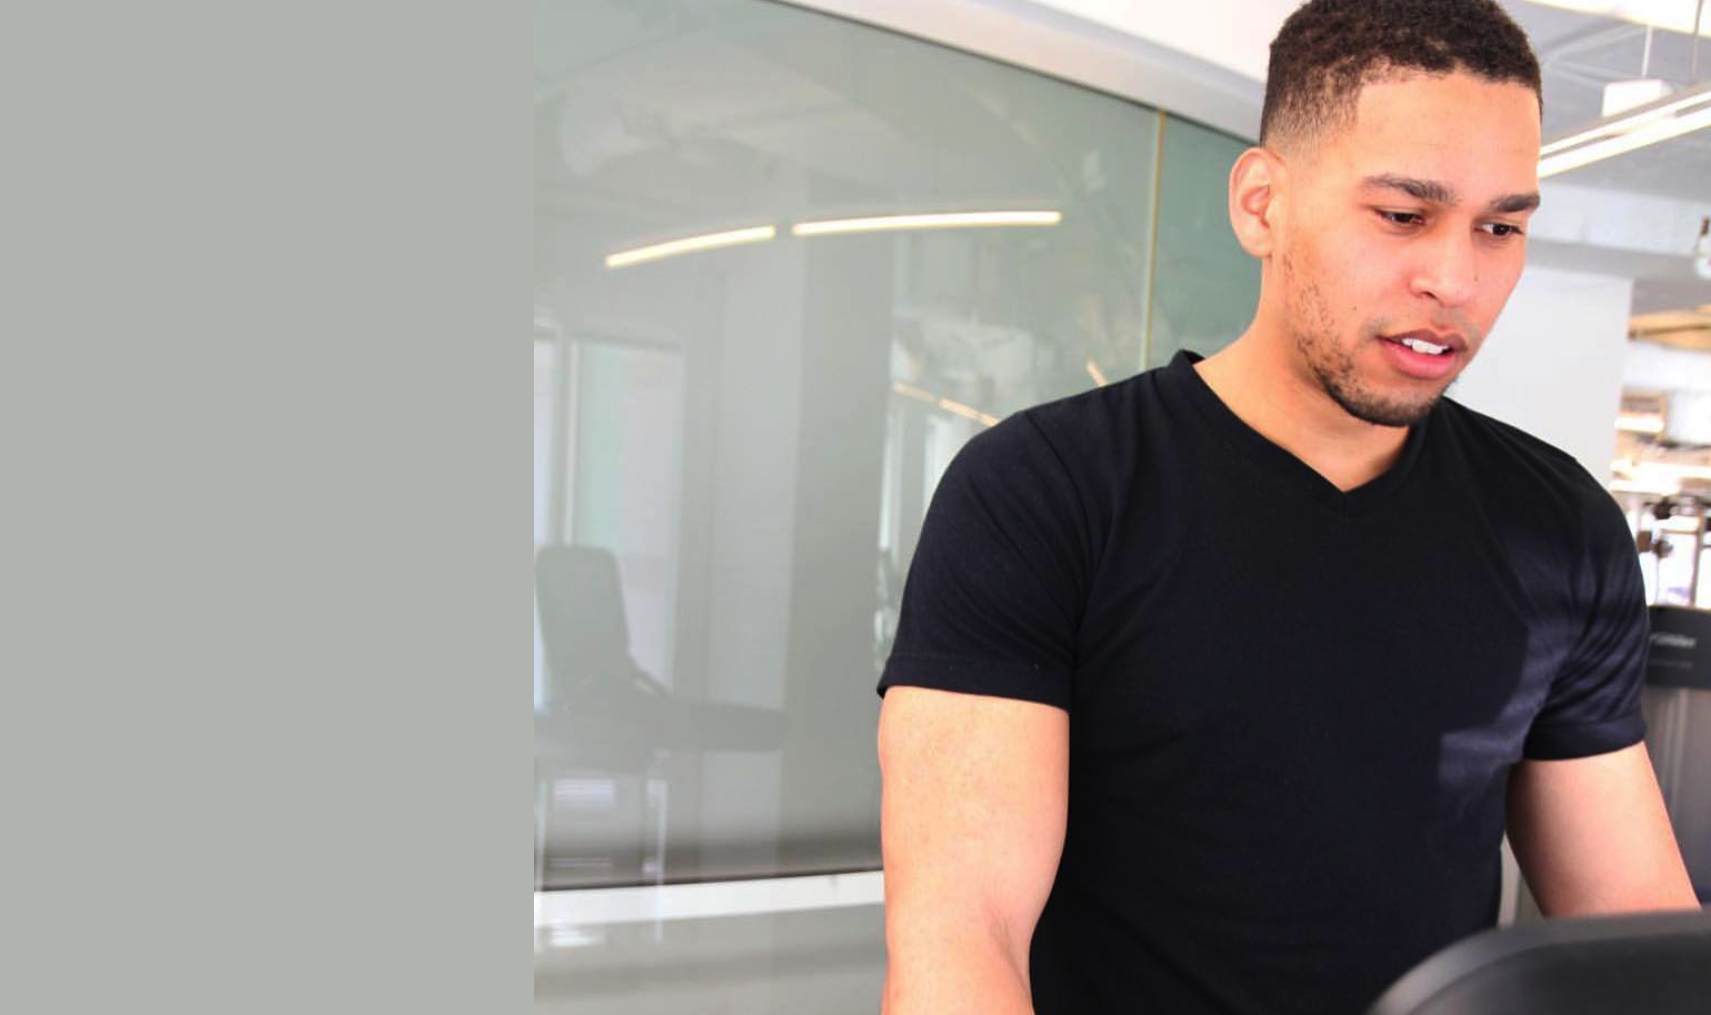
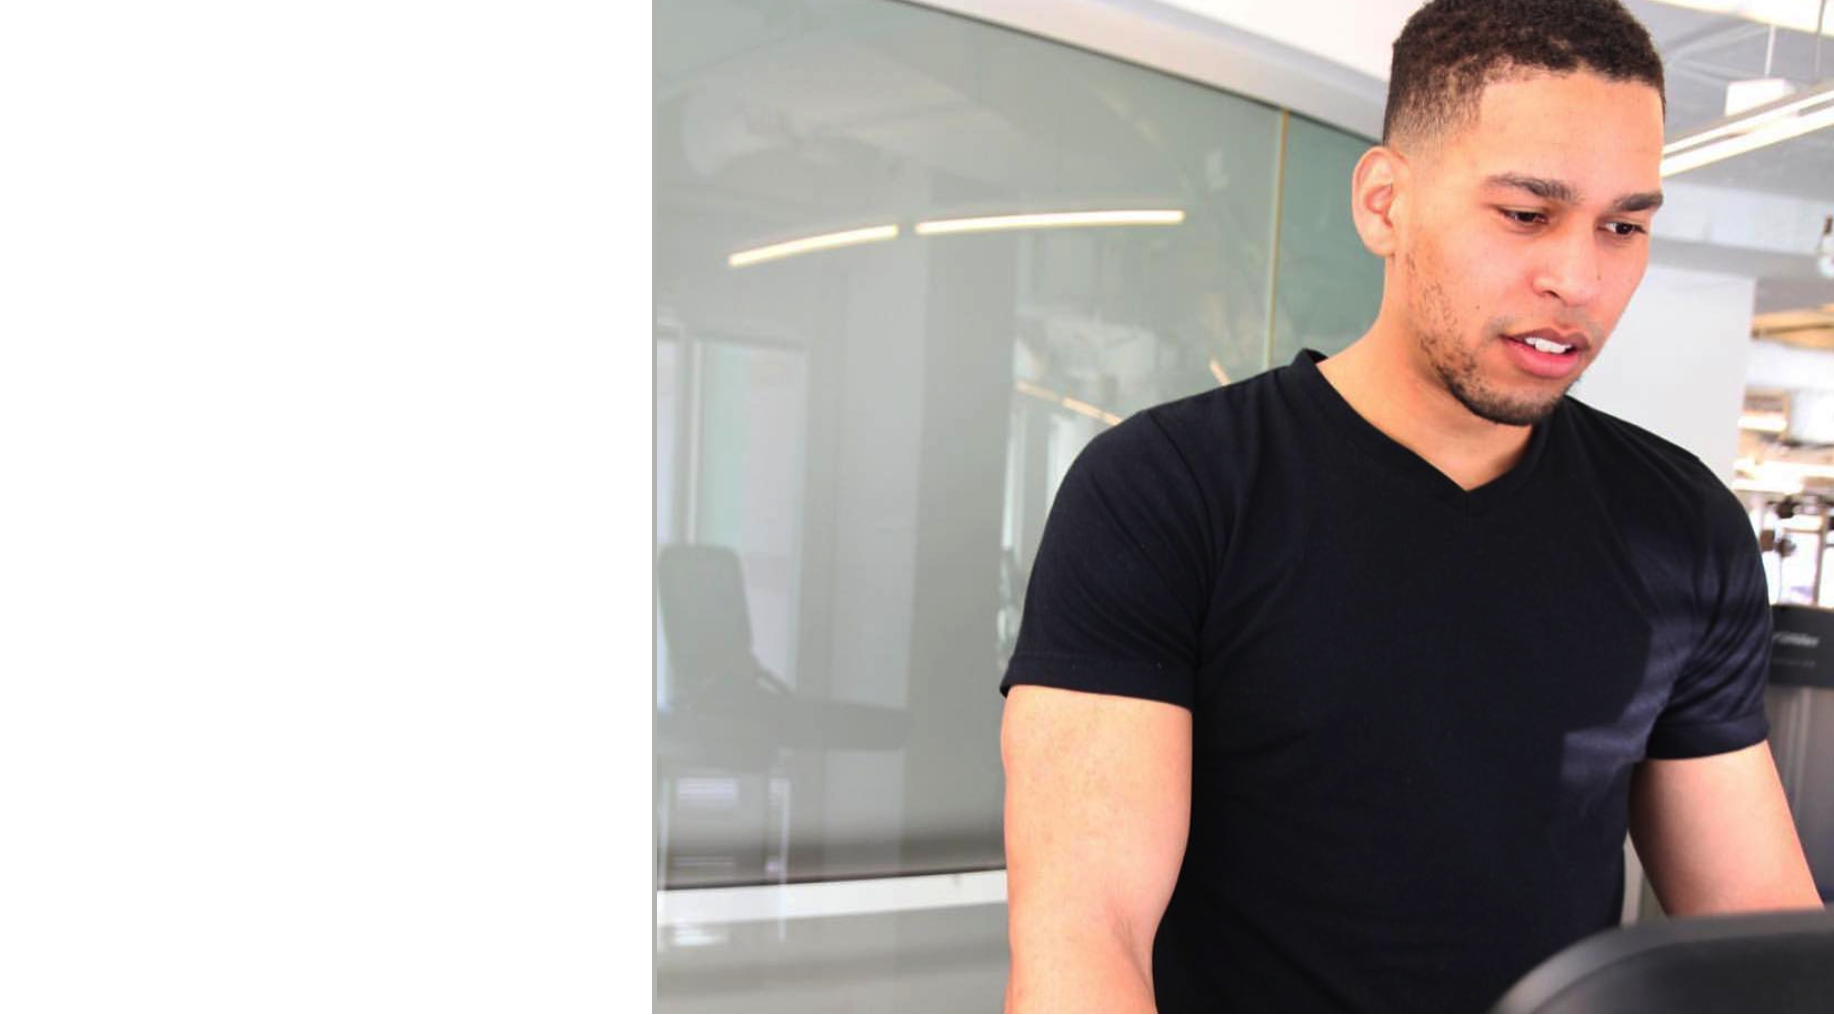
changes

diff --git a/index.html b/index.html
@@ -56,7 +56,7 @@
 							<!-- <p>And there are no hoverboards or flying cars.<br />
 							Just apps. Lots of mother flipping apps.</p> -->
 						</header>
-						<span class="image"><img src="images/pic01.jpg" alt="" /></span>
+						<span class="image"><img src="images/dc-fit.png" alt="" /></span>
 					</div>
 					<a href="#one" class="goto-next scrolly">Next</a>
 				</section>
@@ -95,7 +95,7 @@
 
 			<!-- Two -->
 				<section id="two" class="spotlight style2 right">
-					<span class="image fit main"><img src="images/matt.png" alt="" /></span>
+					<span class="image fit main"><img src="images/matt1.png" alt="" /></span>
 					<div class="content">
 						<header>
 							<h2 class='about'>Who Are We?</h2>
@@ -171,6 +171,11 @@
 								<li><a href="#" class="button">Magna sed feugiat</a></li>
 							</ul>
 						</footer>
+						<br>
+						<br>
+						<br>
+						<br>
+						<h2 id='contact'>Contact Us</h2>
 						<form action="https://formspree.io/districtfit1@gmail.com" method="POST">
 								<input id='name' type="text" name="name" placeholder="Your Name">
 								<input id='email' type="email" name="_replyto" placeholder="Your Email Address">

diff --git a/assets/css/main.css b/assets/css/main.css
@@ -3401,9 +3401,9 @@
 				width: 18em;
 			}
 
-				#banner .content .image img {
+			#banner .content .image img {
 					border-radius: 100%;
-					display: block;
+					display: inline-block;
 					width: 100%;
 				}
 

diff --git a/assets/css/style.css b/assets/css/style.css
@@ -8,7 +8,9 @@ form {
     text-align: center;
     width: 65%;
 }
-
+#contact{
+  border-bottom: solid white 2px;
+}
 #name{
   margin-bottom: 1%;
 }
